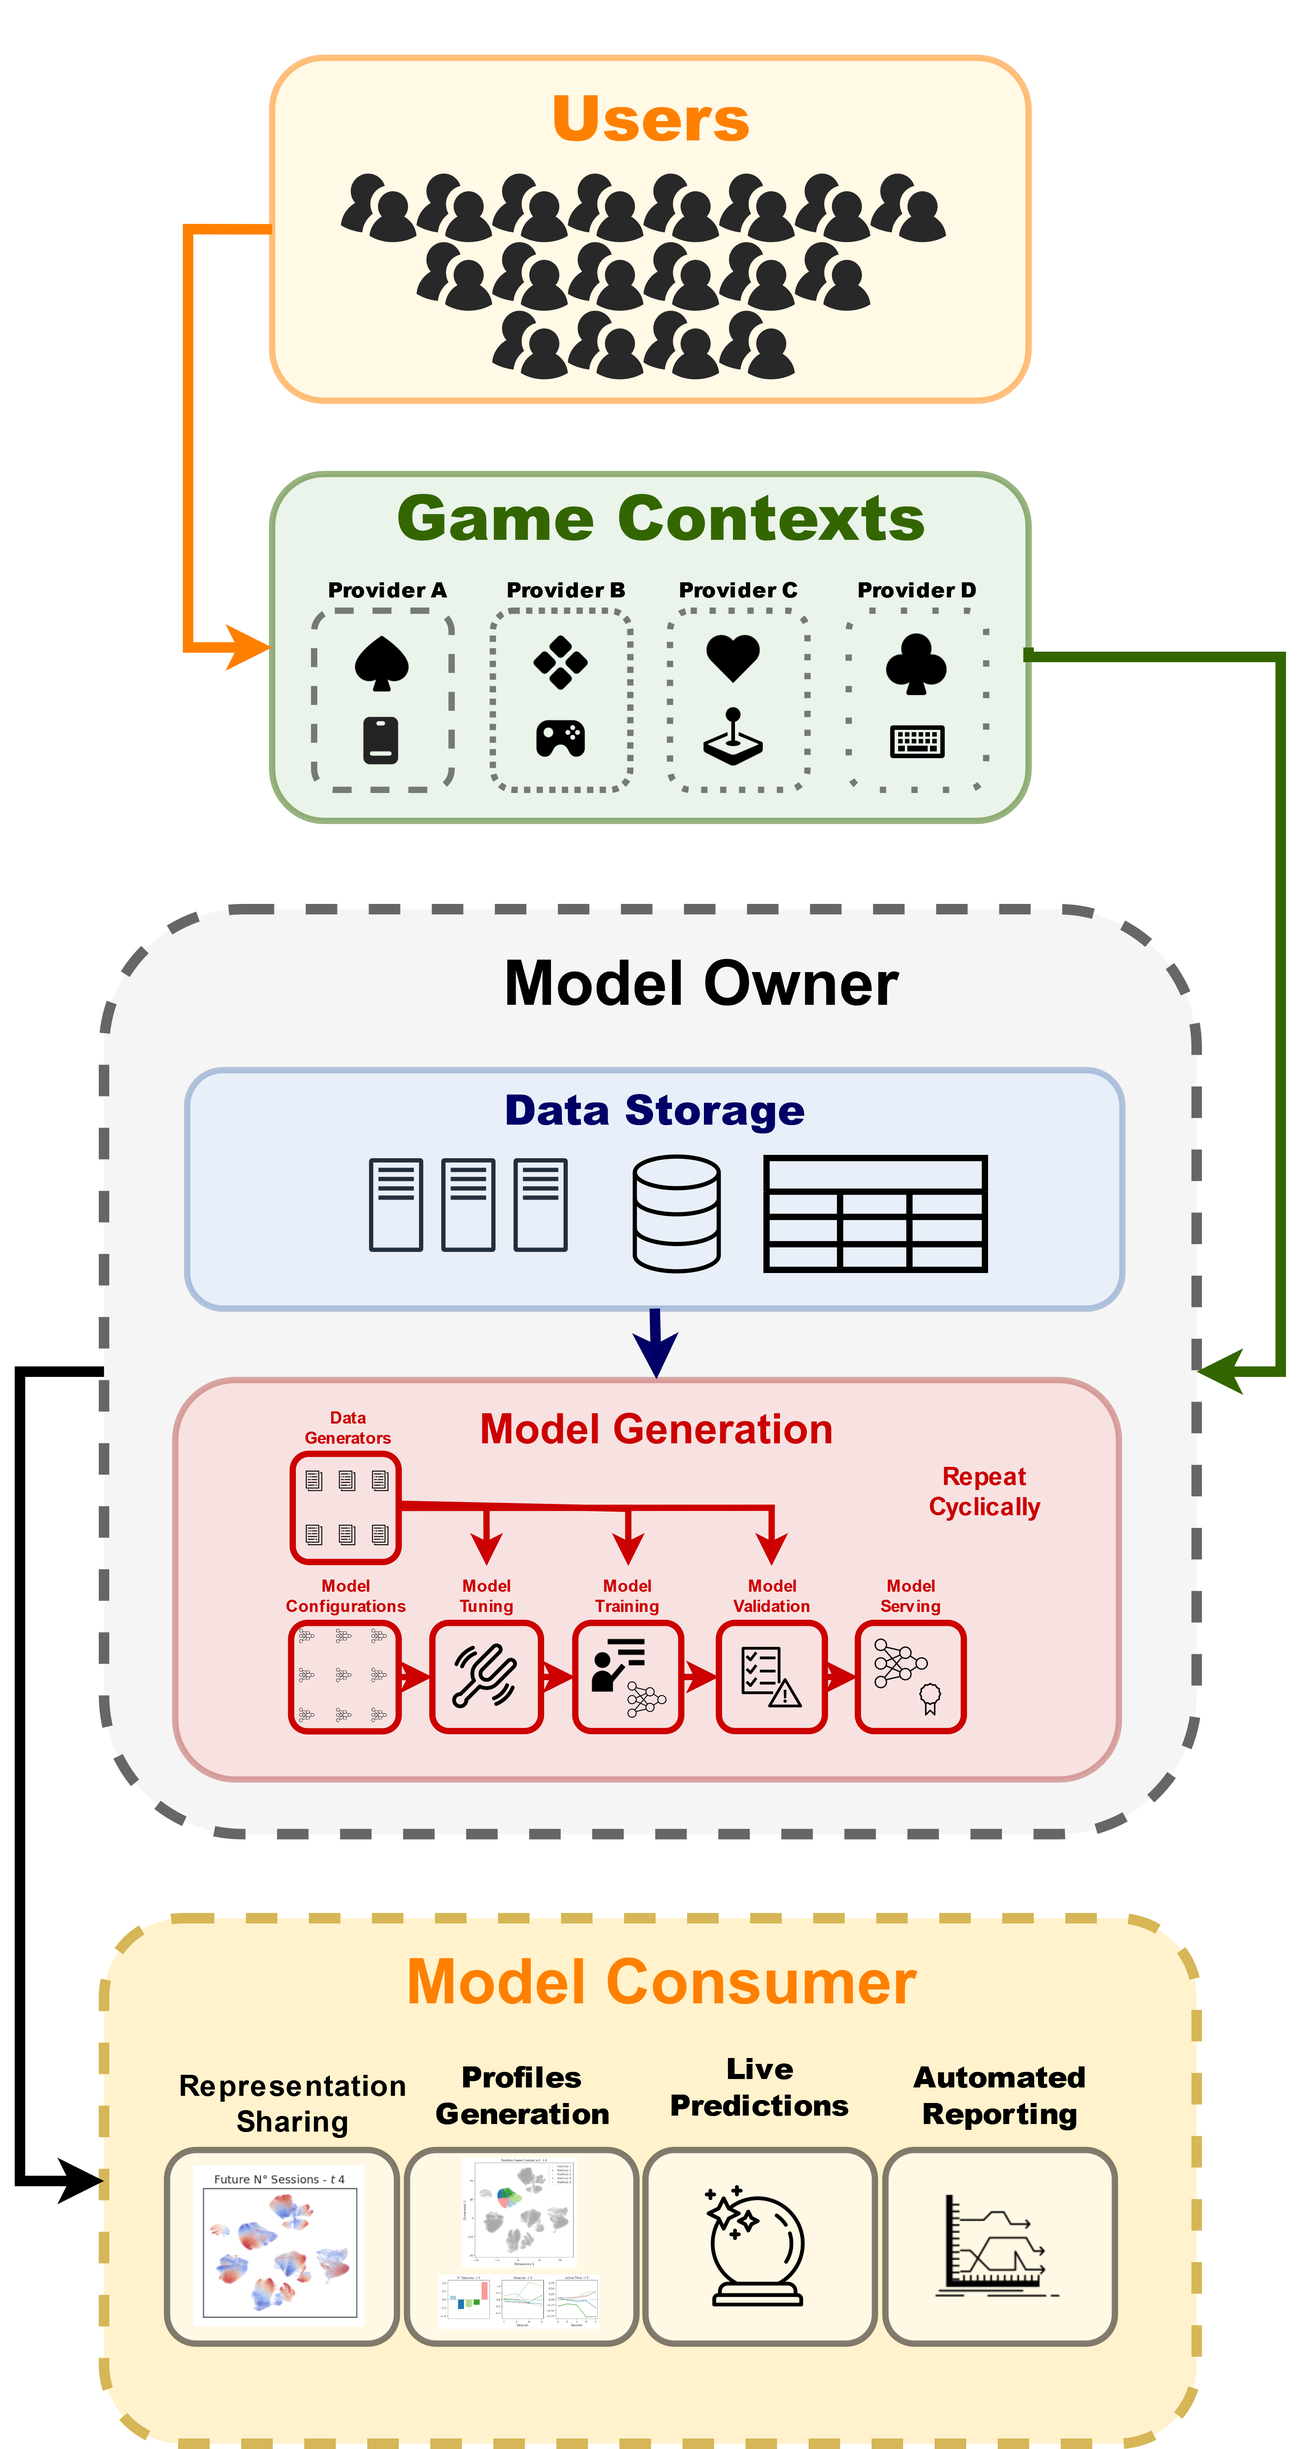
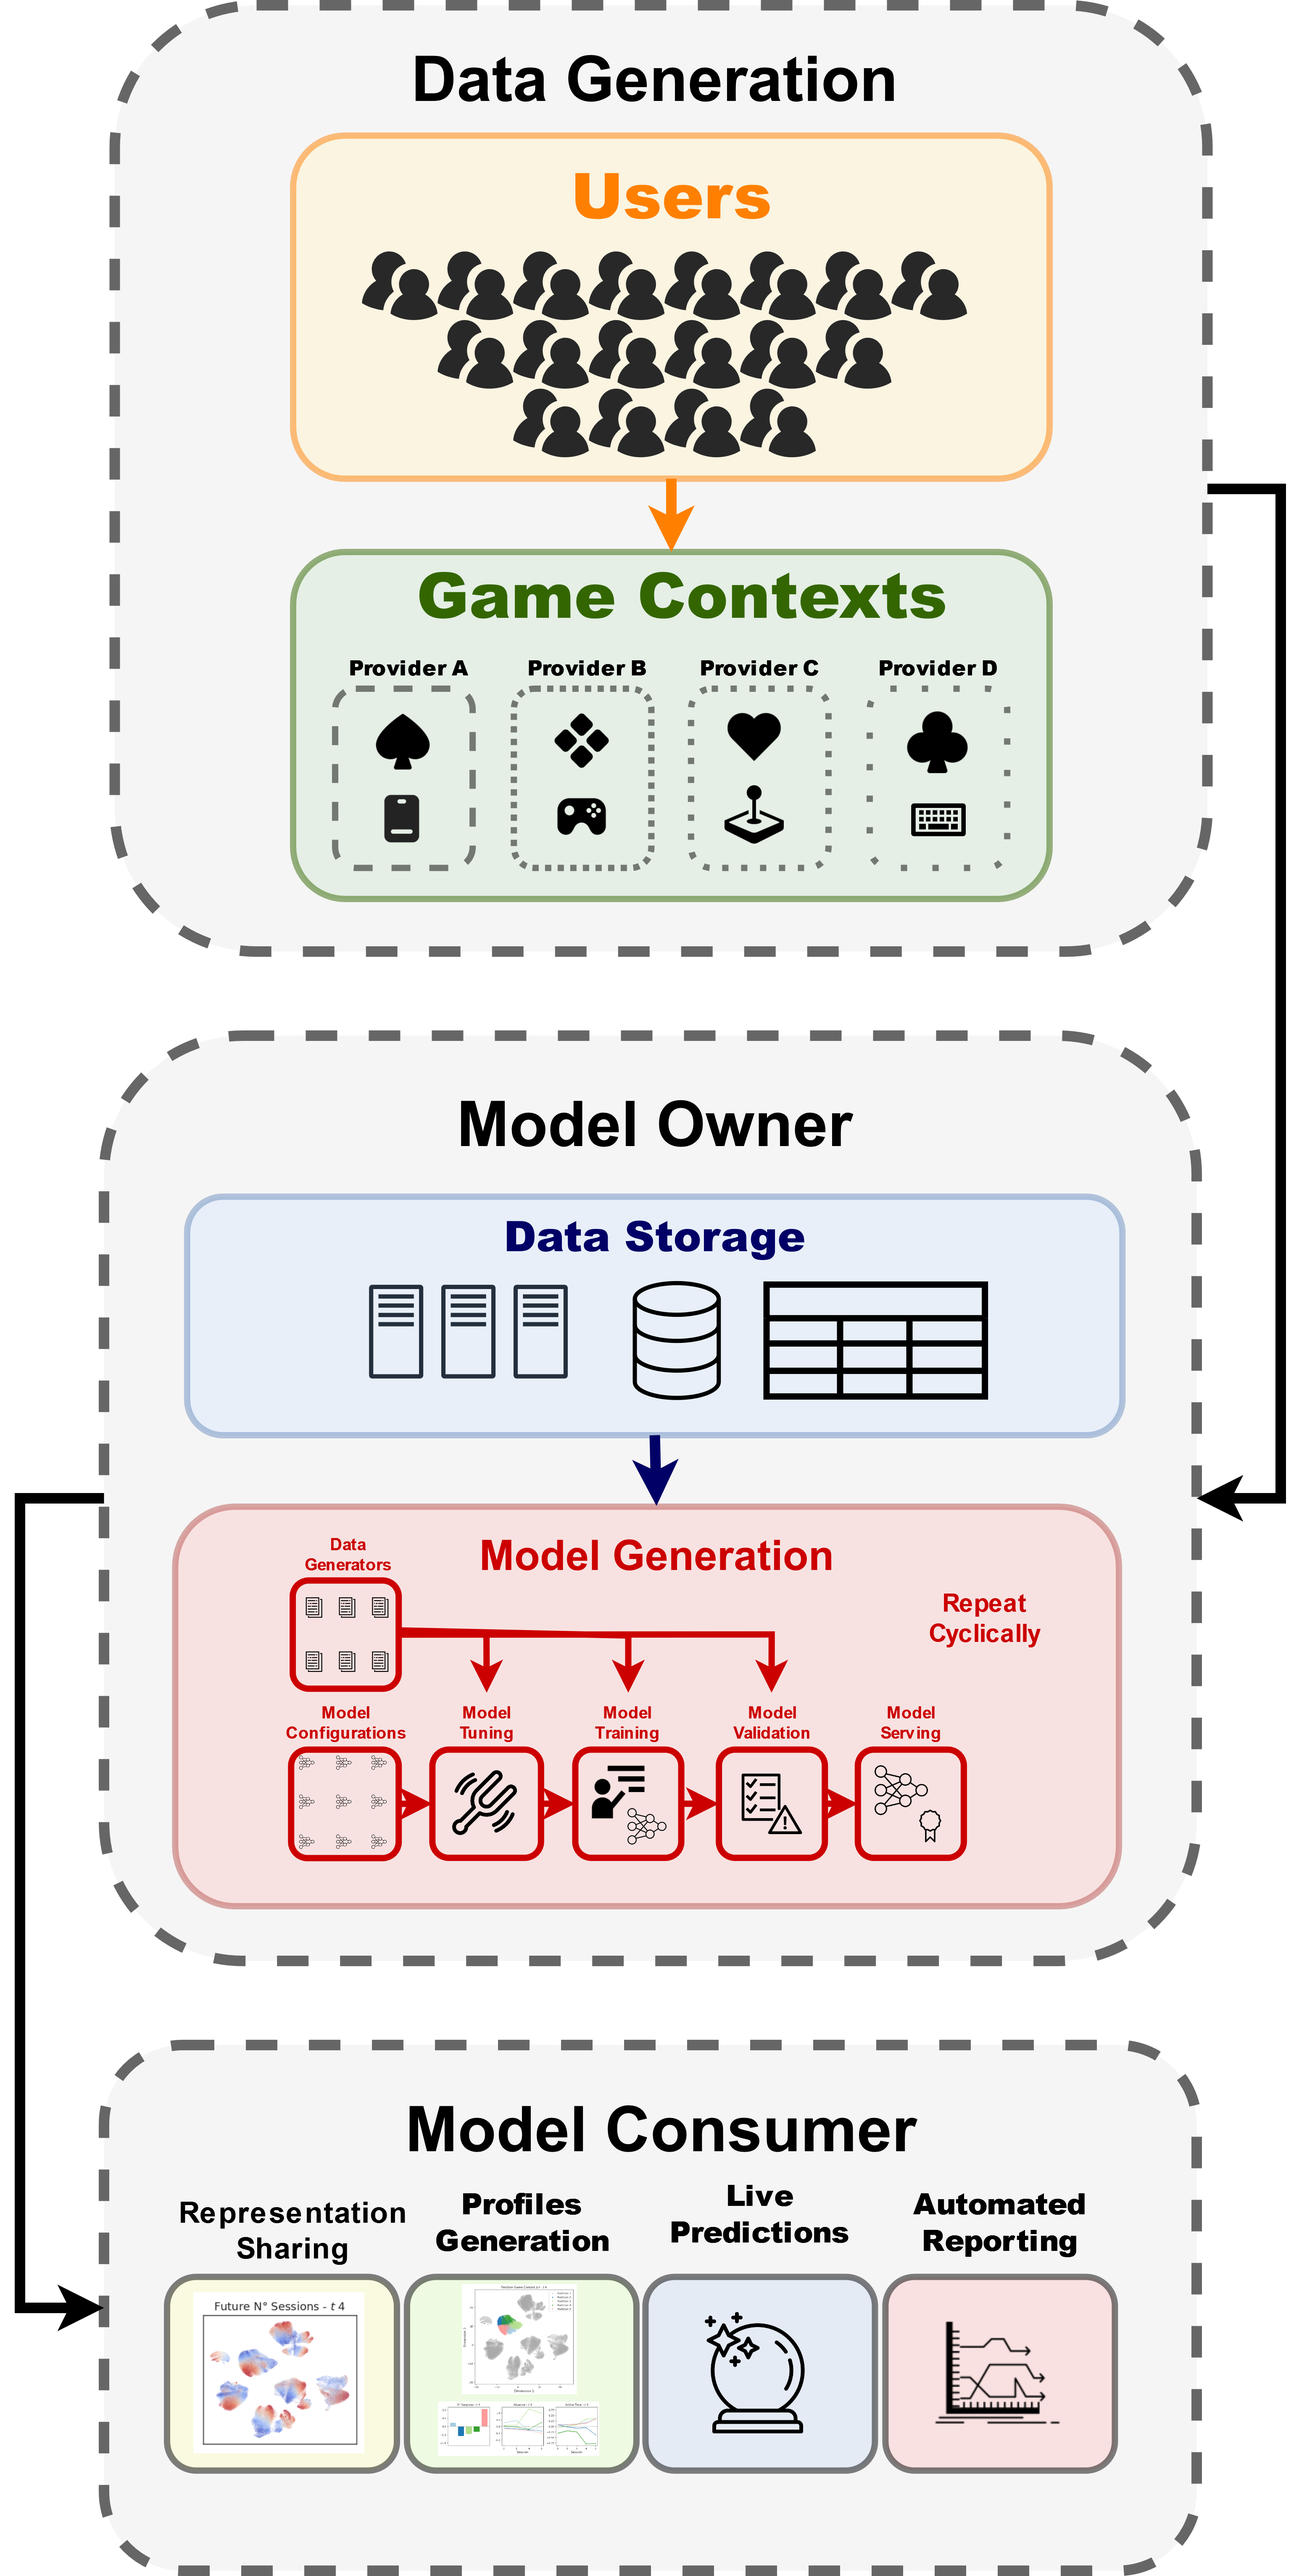
Updates from Overleaf

diff --git a/chapters/chapter_5.tex b/chapters/chapter_5.tex
@@ -6,8 +6,16 @@ As we
 \label{industry_needs}
 \lorem
 
-\section{Deployment Pipeline}
+\section{Multi-context Automated Engagement Prediction and Quantification}
 \label{industry_needs}
+
+\section{Data Generation}
+
+\section{Model Owner}
+
+\section{Model Consumer}
+
+
 \begin{figure}[ht]
 \centering
 \includegraphics[width=0.7\textwidth]{images/chapter_5/pipeline_diagram.png}
